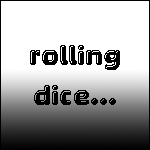
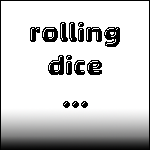
new textures and cleaning up code version 0.9.1

diff --git a/src/mainForm.java b/src/mainForm.java
@@ -8,7 +8,7 @@ import java.awt.event.*;
 
 public class mainForm extends JFrame {
 
-    private static final String VERSION = "0.8.9";
+    private static final String VERSION = "0.9.0";
 
     private JPanel mainPanel;
     private JPanel titleScreen;
@@ -56,6 +56,7 @@ public class mainForm extends JFrame {
     private boolean firstStart = false;
     private boolean betPlaced = false;
     private boolean pointTurn = false;
+    private boolean wonOrLost = false;
 
     Timer timer;
     Timer infoTimer;
@@ -72,59 +73,65 @@ public class mainForm extends JFrame {
 
          continueButtonST.addActionListener(new ActionListener() {
              int i = 0;
+             int j = 0;
 
              @Override
              public void actionPerformed(ActionEvent e) {
-                 infoTimer = new Timer(1000, this);
-                 infoTimer.setRepeats(false);
-                 infoTimer.start();
-                 if (i == 3) {
-                     i = 0;
-                 }
-                 if (!firstStart) {
-                     if (i == 0) {
-                         infoView.setIcon(new ImageIcon("src/ui_resources/labels/infoScreenLabelRDTB1.png"));
-                     }
-                     if (i == 2) {
-                         infoView.setIcon(new ImageIcon("src/ui_resources/labels/infoScreenLabelW1.png"));
-                     }
-                 }
-                 else if (pointTurn && !infoScreenBusy) {
-                     if (i == 0) {
-                         infoView.setIcon(new ImageIcon("src/ui_resources/labels/infoScreenLabelWFRP.png"));
-                     }
-                     if (i == 1) {
-                         infoView.setIcon(new ImageIcon("src/ui_resources/labels/infoScreenLabelBlank.png"));
-                     }
-                     if (i == 2) {
-                         infoView.setIcon(new ImageIcon("src/ui_resources/labels/infoScreenLabelWFRP.png"));
-                     }
-                 }
-                 else if (firstDiceRoll && !infoScreenBusy && !betPlaced) {
-                     if (i == 0) {
-                         infoView.setIcon(new ImageIcon("src/ui_resources/labels/infoScreenLabelPYB.png"));
-                     }
-                     if (i == 1) {
-                         infoView.setIcon(new ImageIcon("src/ui_resources/labels/infoScreenLabelBlank.png"));
-                     }
-                     if (i == 2) {
-                         infoView.setIcon(new ImageIcon("src/ui_resources/labels/infoScreenLabelPYB.png"));
-                     }
-                 }
-                 else if (betPlaced && !infoScreenBusy) {
-                     if (i == 0) {
-                         infoView.setIcon(new ImageIcon("src/ui_resources/labels/infoScreenLabelWFR1.png"));
-                     }
-                     if (i == 1) {
-                         infoView.setIcon(new ImageIcon("src/ui_resources/labels/infoScreenLabelBlank.png"));
-                     }
-                     if (i == 2) {
-                         infoView.setIcon(new ImageIcon("src/ui_resources/labels/infoScreenLabelWFR1.png"));
-                     }
-                 }
-
-                 i++;
-             }
+//                 infoTimer = new Timer(1000, this);
+//                 infoTimer.setRepeats(false);
+//                 infoTimer.start();
+//                 if (i == 8) {
+//                     i = 0;
+//                 }
+//                 if (!firstStart) {
+//                     if (i == 0 || i == 4) {
+//                         infoView.setIcon(new ImageIcon("src/ui_resources/labels/infoScreenLabelRDTB1.png"));
+//                     }
+//                     if (i == 2 || i == 6) {
+//                         infoView.setIcon(new ImageIcon("src/ui_resources/labels/infoScreenLabelW1.png"));
+//                     }
+//                 }
+//                 else if (pointTurn && !infoScreenBusy) {
+//                     System.out.println("POINT TURN TEXTURES RUNNING");
+//                     if (i == 5) {
+//                         infoView.setIcon(new ImageIcon("src/ui_resources/labels/infoScreenLabelWFRP.png"));
+//                     }
+//                     if (i == 6) {
+//                         infoView.setIcon(new ImageIcon("src/ui_resources/labels/infoScreenLabelBlank.png"));
+//                     }
+//                     if (i == 7) {
+//                         infoView.setIcon(new ImageIcon("src/ui_resources/labels/infoScreenLabelWFRP.png"));
+//                     }
+//                 }
+//                 else if (firstDiceRoll && !infoScreenBusy && !betPlaced) {
+//                     System.out.println("PLACE BET TEXTURES RUNNING");
+//                     if (i == 3) {
+//                         infoView.setIcon(new ImageIcon("src/ui_resources/labels/infoScreenLabelPYB.png"));
+//                     }
+//                     if (i == 4) {
+//                         infoView.setIcon(new ImageIcon("src/ui_resources/labels/infoScreenLabelBlank.png"));
+//                     }
+//                     if (i == 5) {
+//                         infoView.setIcon(new ImageIcon("src/ui_resources/labels/infoScreenLabelPYB.png"));
+//                     }
+//
+//                 }
+//                 else if (betPlaced && !infoScreenBusy) {
+//                     System.out.println("WAITING FOR ROLL TURN TEXTURES RUNNING");
+//                     if (i == 6) {
+//                         infoView.setIcon(new ImageIcon("src/ui_resources/labels/infoScreenLabelWFR1.png"));
+//                     }
+//                     if (i == 7) {
+//                         infoView.setIcon(new ImageIcon("src/ui_resources/labels/infoScreenLabelBlank.png"));
+//                     }
+//                     if (i == 8) {
+//                         infoView.setIcon(new ImageIcon("src/ui_resources/labels/infoScreenLabelWFR1.png"));
+//                     }
+//                 }
+//
+//
+//                 i++;
+               }
          });
 
         rollDiceButton.addActionListener(new ActionListener() {
@@ -140,8 +147,6 @@ public class mainForm extends JFrame {
                     rollDiceButton.setEnabled(false);
                 }
 
-                infoScreenBusy = true;
-
                 firstStart = true;
 
                 placeBetButton.setEnabled(false);
@@ -156,7 +161,10 @@ public class mainForm extends JFrame {
                 timer.setRepeats(false);
                 timer.start();
 
+
                 if (i == 0) {
+                    System.out.println("info busy true");
+                    infoScreenBusy = true;
                     die1img.setIcon(new ImageIcon("src/ui_resources/dieIcons/die3.png"));
                     die2img.setIcon(new ImageIcon("src/ui_resources/dieIcons/die4.png"));
                     infoView.setIcon(new ImageIcon("src/ui_resources/labels/infoScreenLabelRD1.png"));
@@ -181,11 +189,13 @@ public class mainForm extends JFrame {
                         currentRollField.setText(String.valueOf(player.getCurrentRoll()));
                     }
 
+                    System.out.println("info busy false");
+                    infoScreenBusy = false;
                     betPlaced = false;
                     firstDiceRoll = true;
-                    infoScreenBusy = false;
                     rollDiceButton.setRolloverEnabled(true);
                     betAmountField.setEditable(true);
+
 
                     die1img.setIcon(new ImageIcon("src/ui_resources/dieIcons/die1.png"));
                     die2img.setIcon(new ImageIcon("src/ui_resources/dieIcons/die1.png"));
@@ -199,73 +209,83 @@ public class mainForm extends JFrame {
 
                 if (i == 4) {
                     if (firstStart) {
-                        if (!pointTurn) {
-                            rollDiceButton.setEnabled(false);
+
+                        if (wonOrLost) {
+                            gameTimer.stop();
+                            infoView.setIcon(new ImageIcon("src/ui_resources/labels/infoScreenLabelWFR1.png"));
                         }
-                        if (pointTurn) {
-                            if (player.getCurrentRoll() == 7) {
-                                player.setLose(true);
-                                pointTurn = false;
-                                betAmountField.setEditable(true);
-                            } else if (player.getCurrentRoll() == player.getMyPoint()) {
-                                player.setWin(true);
-                                pointTurn = false;
-                                betAmountField.setEditable(true);
+
+                        if (!wonOrLost) {
+                            if (!pointTurn) {
+                                rollDiceButton.setEnabled(false);
                             }
-                        }
-                        else {
-                            if (player.getCurrentRoll() == 7
-                                    || player.getCurrentRoll() == 11) {
-                                player.setWin(true);
-                                player.setCurrentRoll(0);
-                                System.out.println("won");
+                            if (pointTurn) {
+                                if (player.getCurrentRoll() == 7) {
+                                    player.setLose(true);
+                                    wonOrLost = true;
+                                    pointTurn = false;
+                                    betAmountField.setEditable(true);
+                                } else if (player.getCurrentRoll() == player.getMyPoint()) {
+                                    player.setWin(true);
+                                    wonOrLost = true;
+                                    pointTurn = false;
+                                    betAmountField.setEditable(true);
+                                }
+                            } else {
+                                if (player.getCurrentRoll() == 7
+                                        || player.getCurrentRoll() == 11) {
+                                    player.setWin(true);
+                                    wonOrLost = true;
+                                    player.setCurrentRoll(0);
+                                    infoView.setIcon(new ImageIcon("src/ui_resources/labels/infoScreenLabelWON.png"));
+                                }
+
+                                if (player.getCurrentRoll() == 2
+                                        || player.getCurrentRoll() == 3
+                                        || player.getCurrentRoll() == 12) {
+                                    wonOrLost = true;
+                                    player.setLose(true);
+                                    player.setCurrentRoll(0);
+                                    infoView.setIcon(new ImageIcon("src/ui_resources/labels/infoScreenLabelLost.png"));
+                                }
                             }
 
-                            if (player.getCurrentRoll() == 2
-                                    || player.getCurrentRoll() == 3
-                                    || player.getCurrentRoll() == 12) {
-                                player.setLose(true);
-                                player.setCurrentRoll(0);
-                                System.out.println("lost");
+                            if (!pointTurn) {
+                                if (player.getCurrentRoll() == 4
+                                        || player.getCurrentRoll() == 5
+                                        || player.getCurrentRoll() == 6
+                                        || player.getCurrentRoll() == 8
+                                        || player.getCurrentRoll() == 9
+                                        || player.getCurrentRoll() == 10) {
+                                    pointTurn = true;
+                                    placeBetButton.setEnabled(false);
+                                    rollDiceButton.setEnabled(true);
+                                    betAmountField.setEditable(false);
+                                    System.out.println("point turn");
+                                    player.setMyPoint(player.getCurrentRoll());
+                                }
                             }
-                        }
 
-                        if (!pointTurn) {
-                            if (player.getCurrentRoll() == 4
-                                    || player.getCurrentRoll() == 5
-                                    || player.getCurrentRoll() == 6
-                                    || player.getCurrentRoll() == 8
-                                    || player.getCurrentRoll() == 9
-                                    || player.getCurrentRoll() == 10) {
-                                pointTurn = true;
-                                placeBetButton.setEnabled(false);
-                                rollDiceButton.setEnabled(true);
-                                betAmountField.setEditable(false);
-                                System.out.println("point turn");
-                                player.setMyPoint(player.getCurrentRoll());
+
+                            if (player.isLose()) {
+                                System.out.println("subtracting bet");
+                                player.setCurrentCash(player.getCurrentCash() - (player.getCurrentBet() * 2));
+                                cashField.setText(String.valueOf(player.getCurrentCash()));
+                                player.setLose(false);
+                                currentBetField.setText("");
+
+                            } else if (player.isWin()) {
+                                System.out.println("adding bet");
+                                player.setCurrentCash(player.getCurrentCash() + (player.getCurrentBet() * 2));
+                                cashField.setText(String.valueOf(player.getCurrentCash()));
+                                player.setWin(false);
+                                currentBetField.setText("");
                             }
-                        }
 
 
-                        if (player.isLose()) {
-                            System.out.println("subtracting bet");
-                            player.setCurrentCash(player.getCurrentCash() - (player.getCurrentBet() * 2));
-                            cashField.setText(String.valueOf(player.getCurrentCash()));
-                            player.setLose(false);
-                            currentBetField.setText("");
-                            currentRollField.setText("");
+                            System.out.println("point" + player.getMyPoint());
+                            System.out.println("current roll" + player.getCurrentRoll());
                         }
-                        else if (player.isWin()) {
-                            System.out.println("adding bet");
-                            player.setCurrentCash(player.getCurrentCash() + (player.getCurrentBet() * 2));
-                            cashField.setText(String.valueOf(player.getCurrentCash()));
-                            player.setWin(false);
-                            currentBetField.setText("");
-                            currentRollField.setText("");
-                        }
-
-                        System.out.println("point" + player.getMyPoint());
-                        System.out.println("current roll" + player.getCurrentRoll());
                     }
                 }
             }
@@ -288,20 +308,30 @@ public class mainForm extends JFrame {
         placeBetButton.addActionListener(new ActionListener() {
             @Override
             public void actionPerformed(ActionEvent e) {
-                player.setCurrentBet(Integer.parseInt(betAmountField.getText()));
-                player.setCurrentCash(player.getCurrentCash() - player.getCurrentBet());
-                betAmountField.setEditable(false);
-                placeBetButton.setEnabled(false);
+                infoTimer = new Timer(2000, this);
+                infoTimer.setRepeats(false);
+                infoTimer.start();
 
-                infoView.setIcon(new ImageIcon("src/ui_resources/labels/infoScreenLabelBP1.png"));
-                currentBetField.setText(String.valueOf(player.getCurrentBet()));
-                cashField.setText(String.valueOf(player.getCurrentCash()));
-                betPlaced = true;
-                betAmountField.setText("");
-                if (!pointTurn) {
-                    rollDiceButton.setEnabled(true);
+                if (betPlaced) {
+                    infoTimer.stop();
+                    infoView.setIcon(new ImageIcon("src/ui_resources/labels/infoScreenLabelWFR1.png"));
                 }
 
+                if (!betPlaced) {
+                    player.setCurrentBet(Integer.parseInt(betAmountField.getText()));
+                    player.setCurrentCash(player.getCurrentCash() - player.getCurrentBet());
+                    betAmountField.setEditable(false);
+                    placeBetButton.setEnabled(false);
+
+                    infoView.setIcon(new ImageIcon("src/ui_resources/labels/infoScreenLabelBP1.png"));
+                    currentBetField.setText(String.valueOf(player.getCurrentBet()));
+                    cashField.setText(String.valueOf(player.getCurrentCash()));
+                    betPlaced = true;
+                    betAmountField.setText("");
+                    if (!pointTurn) {
+                        rollDiceButton.setEnabled(true);
+                    }
+                }
             }
         });
 
